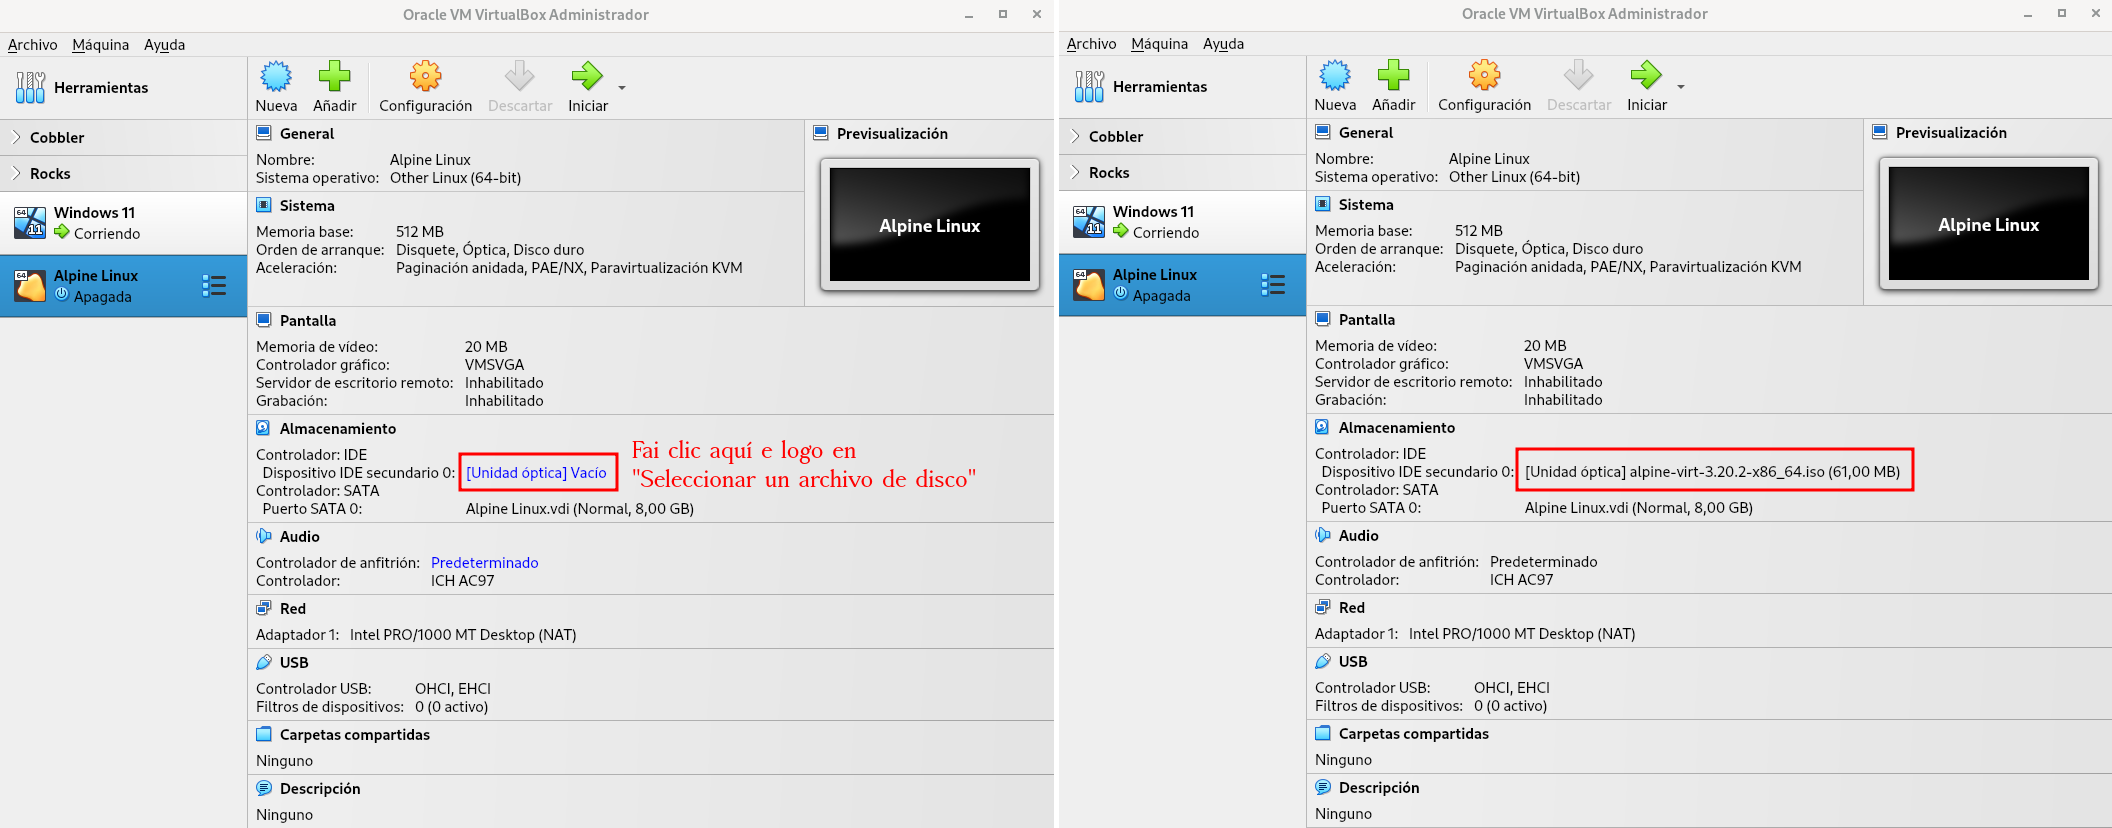
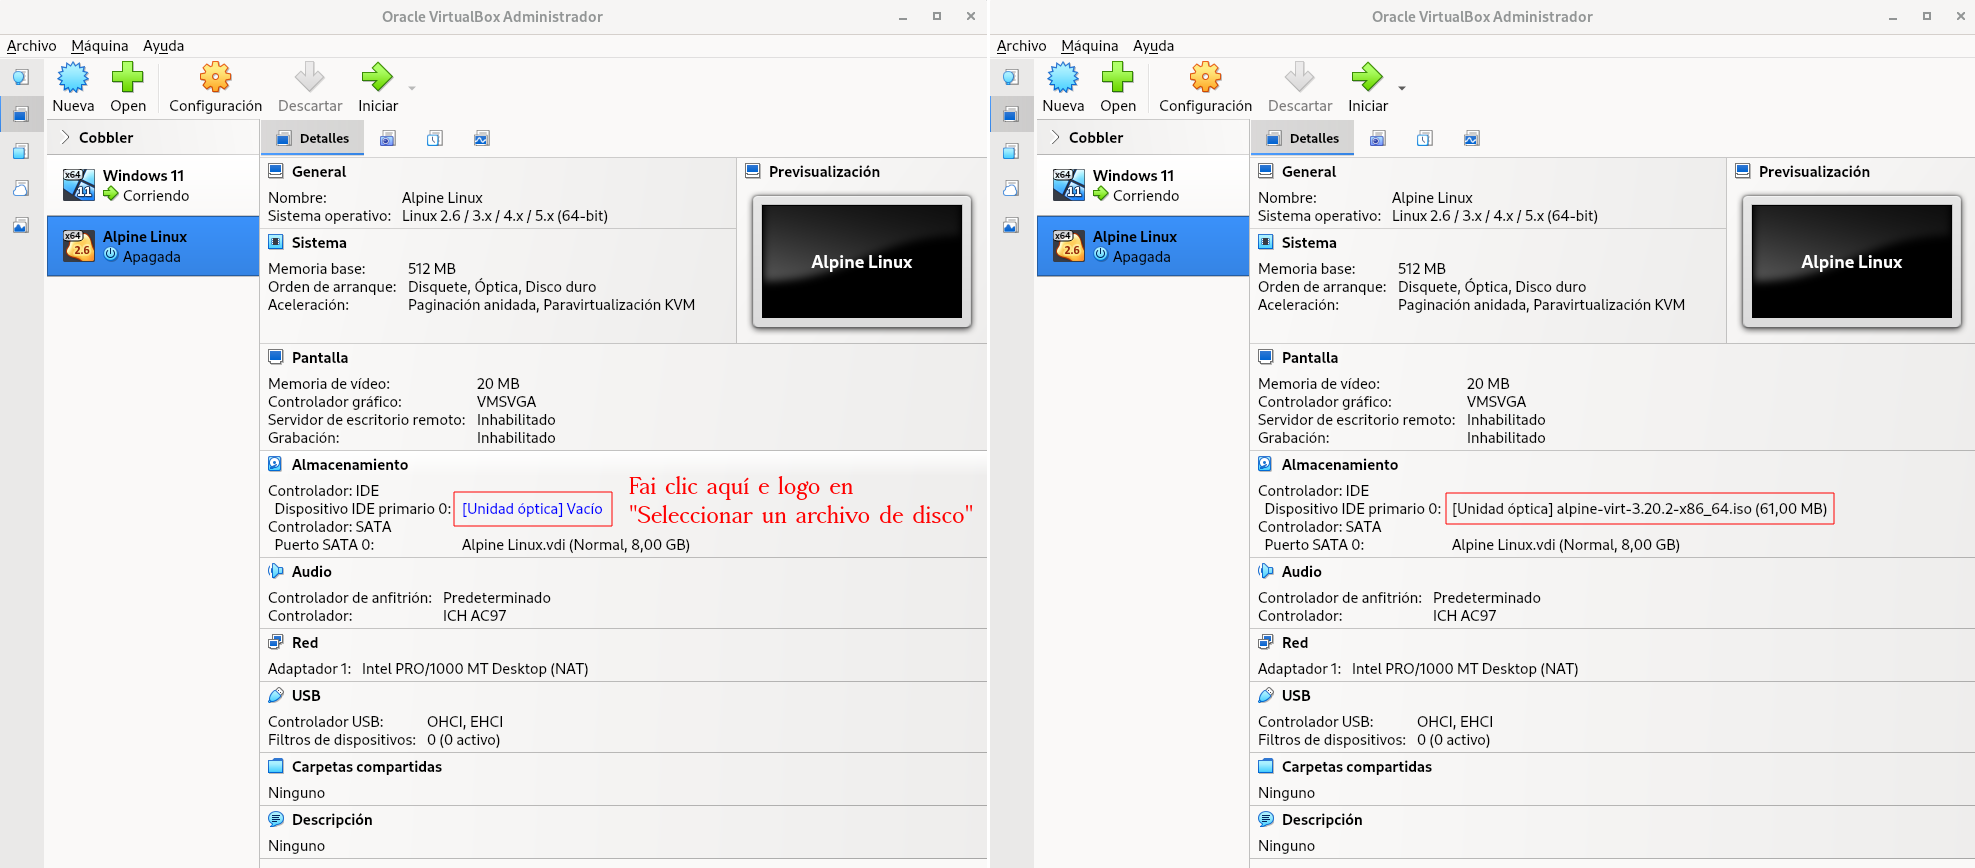
Capturas actualizadas para VIrtualBox 7.2

diff --git a/alpine-install-vbox/index.html b/alpine-install-vbox/index.html
@@ -10,7 +10,9 @@
   <p style="font-size:125%;">A seguinte secuencia de capturas mostra a instalación de Alpine Linux 3.20 coas opcións que hai que seleccionar en cada paso. 
   <ol>
   <li><a href="https://dl-cdn.alpinelinux.org/alpine/v3.20/releases/x86_64/alpine-virt-3.20.2-x86_64.iso">Descarga desde aquí</a> a imaxe ISO para x86-64 da versión <i>Virtual</i> (optimizada para VM) do Alpine Linux 3.20.
+    <!--
     <p><b>NOTA:</b> se estiveses a usar un Macbook con procesador Apple M1-M4, terías que descargar a imaxe ISO para <a href="https://dl-cdn.alpinelinux.org/alpine/v3.20/releases/aarch64/alpine-virt-3.20.2-aarch64.iso">ARM</a>.<p/>
+    -->
   </li>
 
   <li>Inicia a VM que creaches no VirtualBox e, no diálogo que aparece para montar o DVD desde o que instalar o SO, selecciona a imaxe ISO descargada e reinicia a VM. Se che dera problemas accedendo á imaxe ISO, podes probar a apagar a VM, montar a imaxe ISO "manualmente" na unidade óptica da VM (propiedades de almacenamento da VM, véxase captura inferior), e iniciar de novo a VM.</li>
